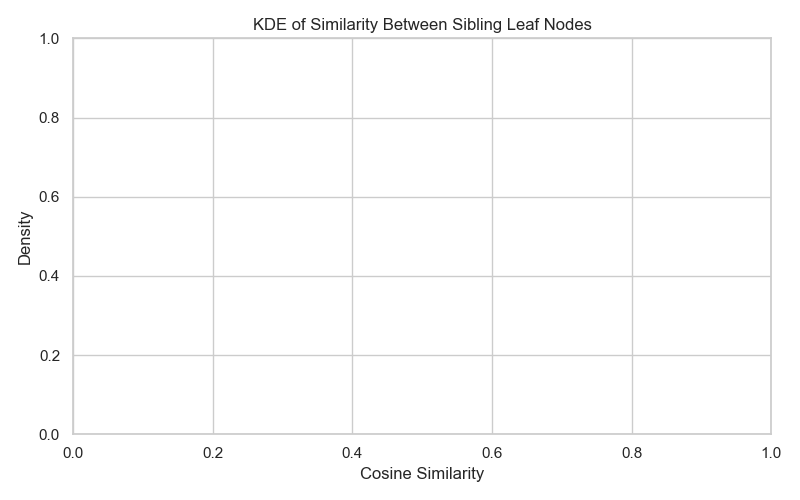
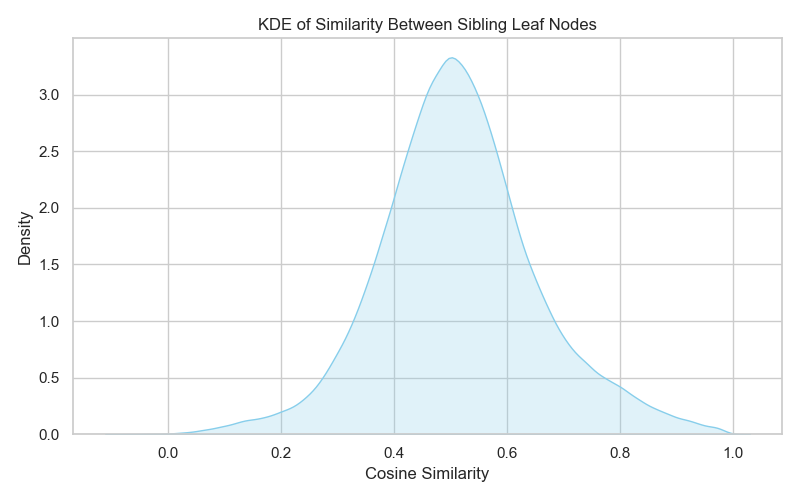
threshold determined

diff --git a/08_semantic_embedding.py b/08_semantic_embedding.py
@@ -6,21 +6,27 @@ from tqdm import tqdm
 input_path = 'Data/embedding/annotation_natural.csv'
 output_path = 'Data/embedding/semantic_embedding.pt'
 
-# 加载模型和分词器
-tokenizer = AutoTokenizer.from_pretrained("emilyalsentzer/Bio_ClinicalBERT")
-model = AutoModel.from_pretrained("emilyalsentzer/Bio_ClinicalBERT")
+# === 加载模型和分词器（推荐使用 GPU）
+tokenizer = AutoTokenizer.from_pretrained("pritamdeka/BioBERT-mnli-snli-scinli-scitail-mednli-stsb")
+model = AutoModel.from_pretrained("pritamdeka/BioBERT-mnli-snli-scinli-scitail-mednli-stsb")
 model.eval()
 device = torch.device("cuda" if torch.cuda.is_available() else "cpu")
 model.to(device)
 
-# 读取CSV
+# === 读取CSV
 df = pd.read_csv(input_path, sep='|')
 
-# 准备保存数据
-id2index = []
-embedding_list = []
+# === Mean Pooling 函数
+def mean_pooling(model_output, attention_mask):
+    token_embeddings = model_output[0]  # First element: [batch, seq_len, hidden]
+    input_mask_expanded = attention_mask.unsqueeze(-1).expand(token_embeddings.size()).float()
+    return torch.sum(token_embeddings * input_mask_expanded, dim=1) / torch.clamp(input_mask_expanded.sum(dim=1), min=1e-9)
 
-# 逐句处理
+# === 嵌入保存容器
+index2id_list = []       # index → ID
+embedding_list = []      # 每个句子的嵌入向量
+
+# === 逐句处理
 for idx, row in tqdm(df.iterrows(), total=len(df)):
     entity_id = row['id']
     sentence = row['sentence']
@@ -29,25 +35,19 @@ for idx, row in tqdm(df.iterrows(), total=len(df)):
     inputs = tokenizer(sentence, return_tensors='pt', truncation=True, max_length=512)
     inputs = {k: v.to(device) for k, v in inputs.items()}
 
-    # 前向传播
+    # 前向传播 + Mean Pooling
     with torch.no_grad():
         outputs = model(**inputs)
-        last_hidden_state = outputs.last_hidden_state
-
-    # Mean Pooling
-    attention_mask = inputs['attention_mask']
-    mask_expanded = attention_mask.unsqueeze(-1).expand(last_hidden_state.size()).float()
-    sum_embeddings = torch.sum(last_hidden_state * mask_expanded, dim=1)
-    sum_mask = torch.clamp(mask_expanded.sum(dim=1), min=1e-9)
-    mean_pooled = sum_embeddings / sum_mask
+        sentence_embedding = mean_pooling(outputs, inputs['attention_mask'])
 
     # 存储
-    id2index.append(entity_id)
-    embedding_list.append(mean_pooled.squeeze().cpu())
+    index2id_list.append(entity_id)
+    embedding_list.append(sentence_embedding.squeeze().cpu())
 
-# 构建并保存pt结构
+# === 构建映射与保存
 embedding_tensor = torch.stack(embedding_list)
-index2id = {i: eid for i, eid in enumerate(id2index)}
+index2id = {i: eid for i, eid in enumerate(index2id_list)}       # int → str
+id2index = {eid: i for i, eid in enumerate(index2id_list)}       # str → int
 
 torch.save({
     'embedding_matrix': embedding_tensor,
@@ -55,4 +55,4 @@ torch.save({
     'index2id': index2id
 }, output_path)
 
-print(f"Saved to {output_path}")
+print(f"✅ Embedding saved to {output_path}, shape: {embedding_tensor.shape}")

diff --git a/test.py b/test.py
@@ -1,19 +1,33 @@
 import torch
 
-# 加载结构嵌入
-structure_data = torch.load('Data/embedding/structure_embedding.pt', map_location='cpu')
-structure_vectors = structure_data['model_state_dict']['in_embed.weight']
-structure_index2id = structure_data['idx2word']
+# 路径
+embedding_path = 'Data/embedding/semantic_embedding.pt'
 
-print(f"结构嵌入 shape: {structure_vectors.shape}")
-print(f"结构嵌入 示例 id: {structure_index2id[0]}")
-print(f"结构嵌入 示例向量: {structure_vectors[0][:10]}")  # 只展示前10维
+# 加载文件
+data = torch.load(embedding_path, map_location='cpu')
 
-# 加载语义嵌入
-semantic_data = torch.load('Data/embedding/semantic_embedding.pt', map_location='cpu')
-semantic_vectors = semantic_data['embedding_matrix']
-semantic_index2id = semantic_data['index2id']
+# 解包
+embedding_matrix = data['embedding_matrix']
+id2index = data['id2index']
+index2id = data['index2id']
 
-print(f"语义嵌入 shape: {semantic_vectors.shape}")
-print(f"语义嵌入 示例 id: {semantic_index2id[0]}")
-print(f"语义嵌入 示例向量: {semantic_vectors[0][:10]}")  # 只展示前10维
+# 校验结构
+assert isinstance(id2index, dict), "id2index 应为 dict[str → int]"
+assert isinstance(index2id, dict), "index2id 应为 dict[int → str]"
+assert isinstance(embedding_matrix, torch.Tensor), "embedding_matrix 应为 torch.Tensor"
+
+# 维度检查
+n_vecs, dim = embedding_matrix.shape
+print(f"✅ 向量矩阵维度: {embedding_matrix.shape}")
+print(f"✅ id2index 长度: {len(id2index)}")
+print(f"✅ index2id 长度: {len(index2id)}")
+
+assert n_vecs == len(id2index) == len(index2id), "数量不一致！"
+
+# 样例验证前5个
+print("\n🔍 示例:")
+for i in range(5):
+    eid = index2id[i]
+    idx = id2index[eid]
+    vec = embedding_matrix[idx]
+    print(f"{i}. {eid} → index: {idx} → vec[:5]: {vec[:5].tolist()}")

diff --git a/10_similarity.py b/10_similarity.py
@@ -1,4 +1,5 @@
 import torch
+import numpy as np
 import networkx as nx
 import matplotlib.pyplot as plt
 import seaborn as sns
@@ -50,6 +51,23 @@ for leaf in leaves:
                 v1, v2 = embedding_matrix[i1], embedding_matrix[i2]
                 sim = cosine_similarity(v1.unsqueeze(0), v2.unsqueeze(0)).item()
                 similarities_B.append(sim)
+
+
+# === 数值统计函数 ===
+def describe(name, values):
+    v = np.array(values)
+    print(f"\n=== {name} ===")
+    print(f"Count: {len(v)}")
+    print(f"Mean:  {v.mean():.4f}")
+    print(f"Std:   {v.std():.4f}")
+    print(f"Min:   {v.min():.4f}")
+    print(f"25%:   {np.percentile(v, 25):.4f}")
+    print(f"50%:   {np.percentile(v, 50):.4f}")
+    print(f"75%:   {np.percentile(v, 75):.4f}")
+    print(f"Max:   {v.max():.4f}")
+
+describe("Sibling Leaf Similarities", similarities_A)
+describe("Leaf-Parent Similarities", similarities_B)
 
 # === 绘图 ===
 sns.set(style="whitegrid")
